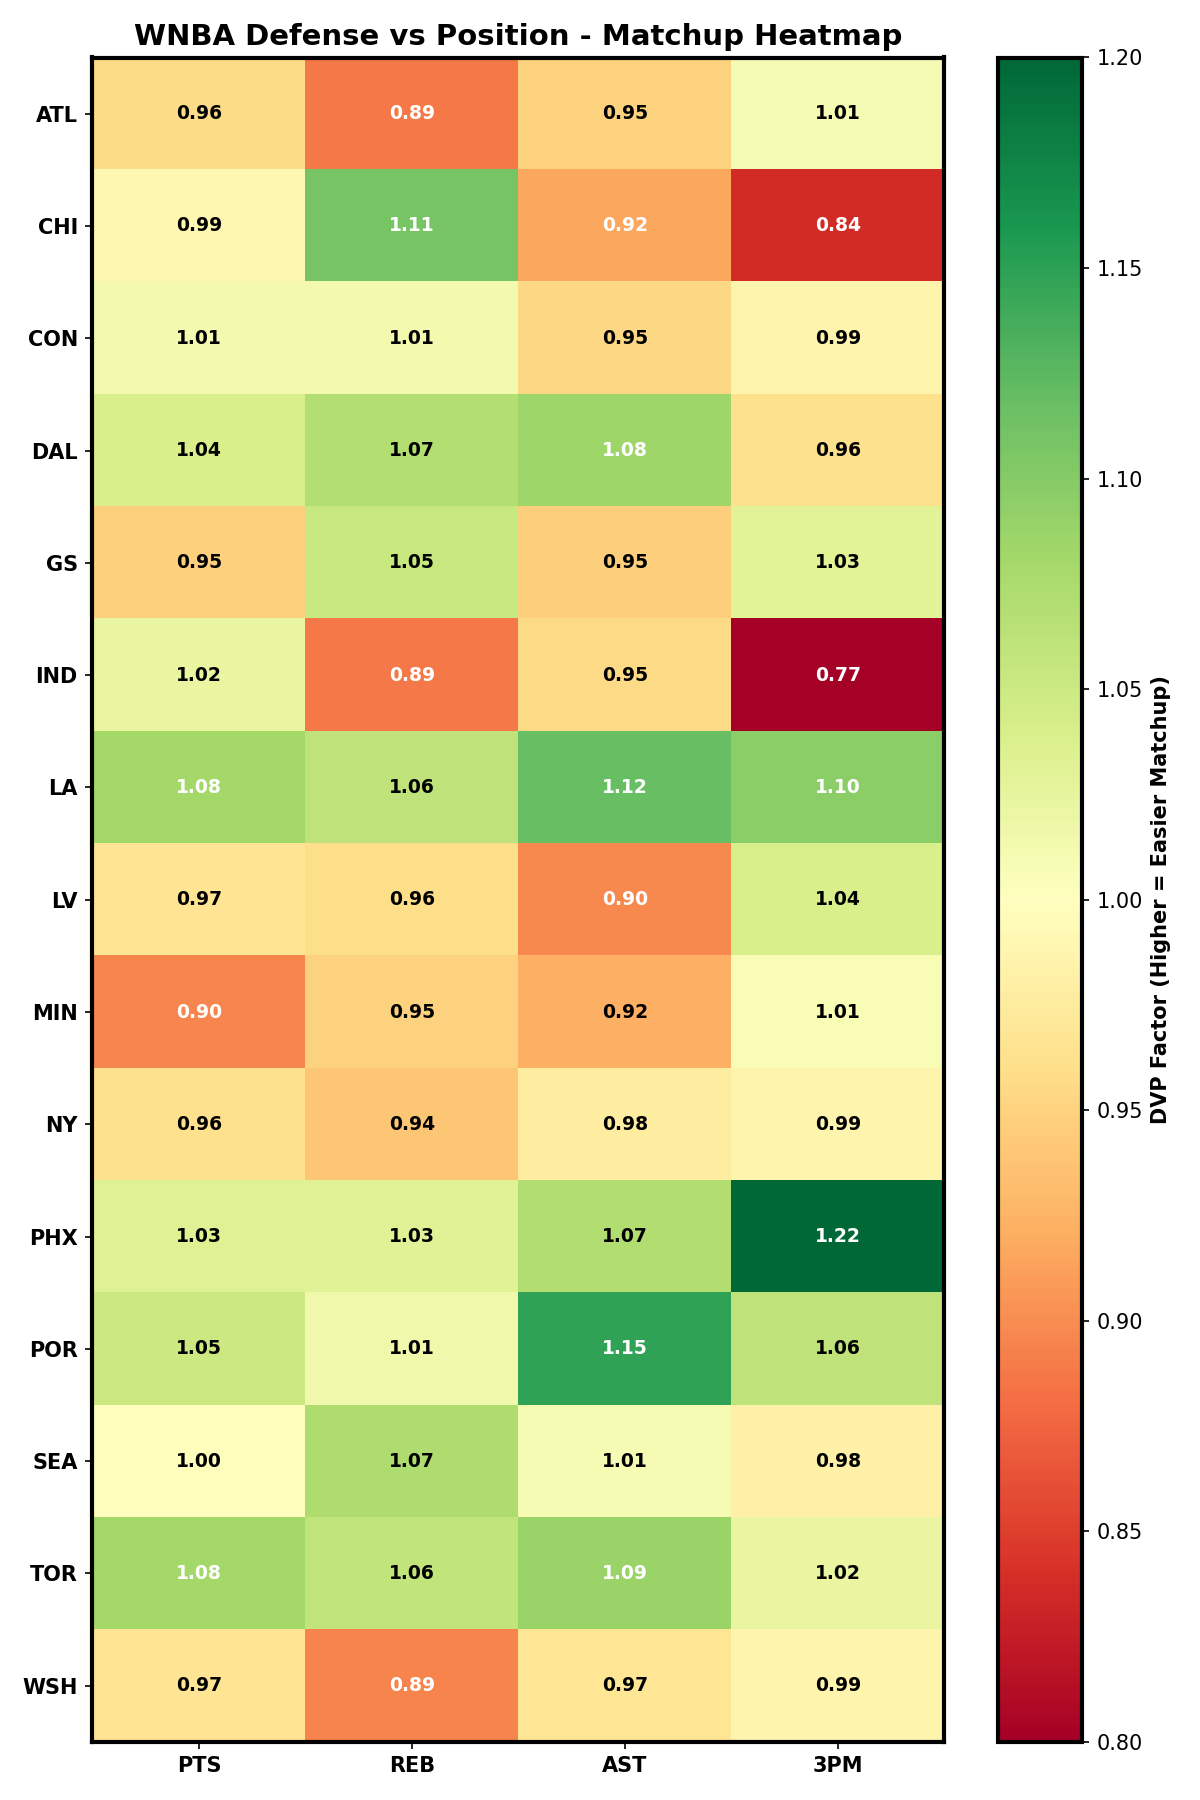
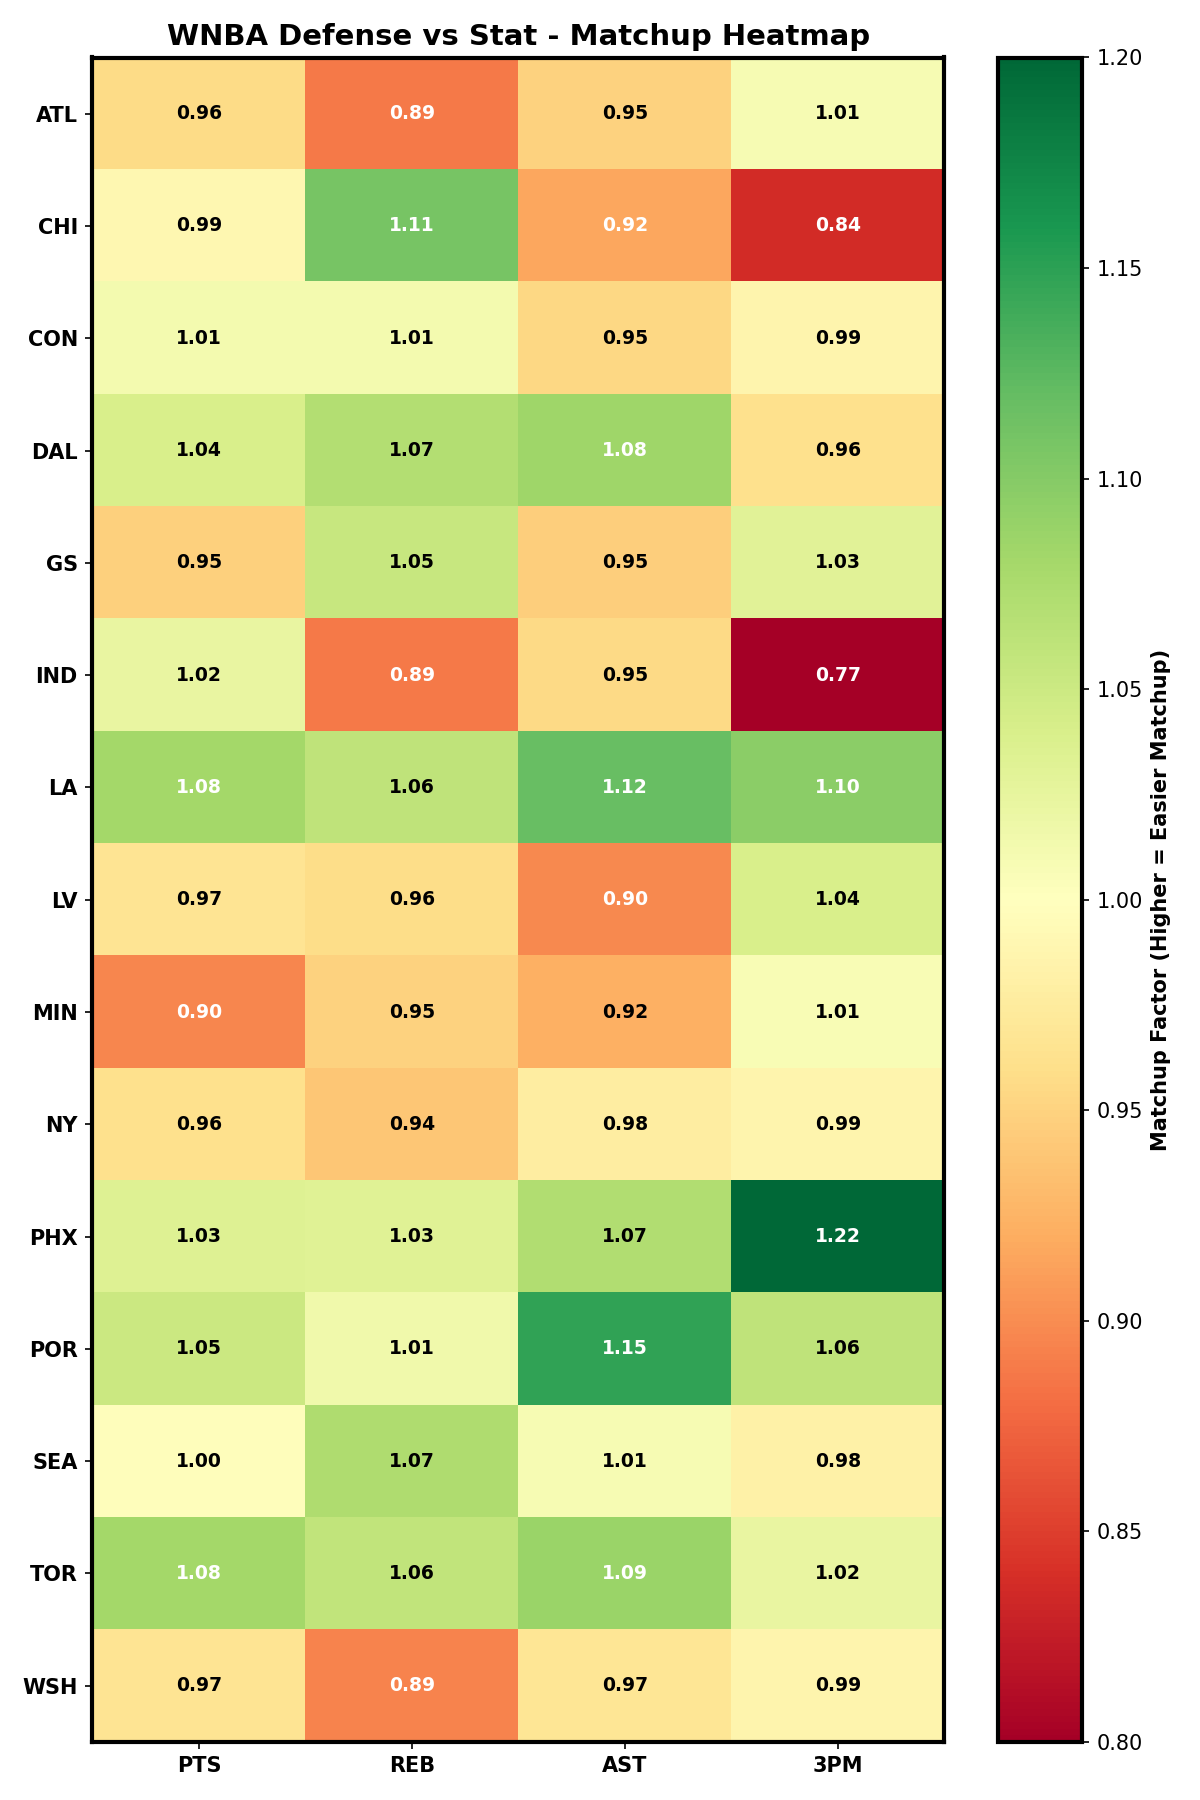
Relabel WNBA DVP chart as Defense vs Stat (title + gallery heading); NBA stays Defense vs Position (2026-06-29 03:18)

Changed region(s): [[0.1233, 0.0, 0.74, 0.0311], [0.9558, 0.3733, 0.9867, 0.6533]]

diff --git a/templates/trends.html b/templates/trends.html
@@ -95,7 +95,7 @@
     </div>
     
     <div class="trends-section">
-        <h2>Defense vs Position Matchups</h2>
+        <h2>{% if league == 'wnba' %}Defense vs Stat Matchups{% else %}Defense vs Position Matchups{% endif %}</h2>
         <p class="chart-description">Green = soft matchup (target). Red = tough matchup (avoid).</p>
         <div class="chart-container">
             <img src="/static/images/{{ chart_pre }}dvp_heatmap.png?v={{ cache_bust }}" alt="DVP Heatmap" class="trend-chart dvp-heatmap">

diff --git a/generate_wnba_charts.py b/generate_wnba_charts.py
@@ -168,10 +168,10 @@ def generate_dvp_heatmap(output_path="static/images/wnba_dvp_heatmap.png"):
         spine.set_color("black")
         spine.set_linewidth(2)
     cbar = plt.colorbar(im, ax=ax)
-    cbar.set_label("DVP Factor (Higher = Easier Matchup)", fontweight="bold", color="black")
+    cbar.set_label("Matchup Factor (Higher = Easier Matchup)", fontweight="bold", color="black")
     cbar.outline.set_color("black")
     cbar.outline.set_linewidth(2)
-    ax.set_title("WNBA Defense vs Position - Matchup Heatmap",
+    ax.set_title("WNBA Defense vs Stat - Matchup Heatmap",
                  fontsize=14, fontweight="bold", color="black")
     plt.tight_layout()
     plt.savefig(output_path, dpi=150, facecolor="white", edgecolor="black")
